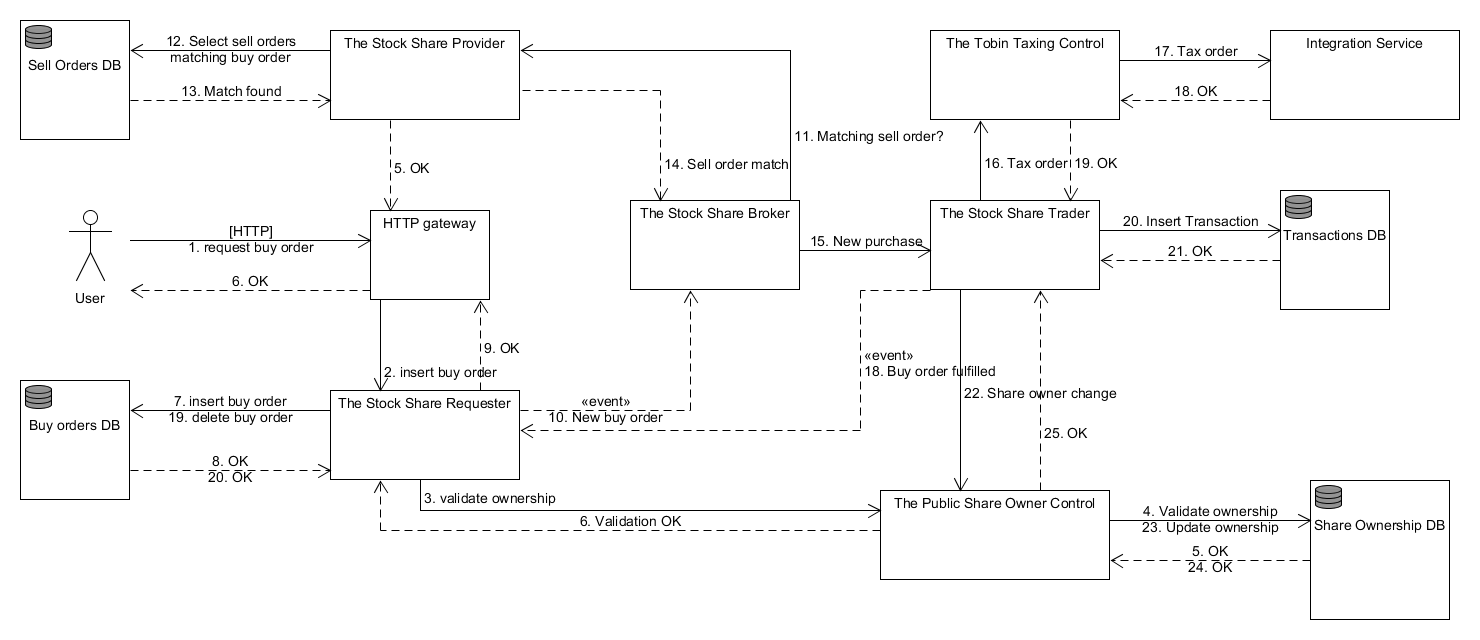
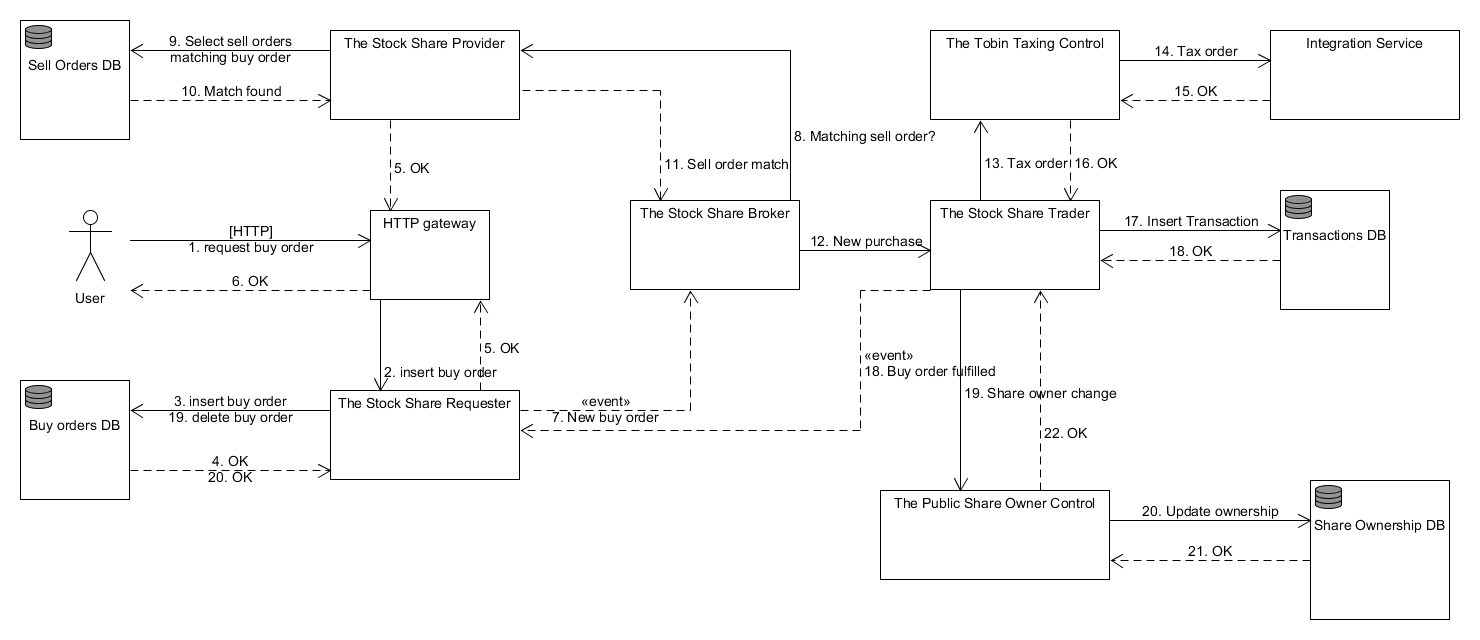
Updated diagrams and added validation check to provider

diff --git a/StockShareProvider/Controllers/SellOrderController.cs b/StockShareProvider/Controllers/SellOrderController.cs
@@ -1,4 +1,10 @@
-using Microsoft.AspNetCore.Mvc;
+using System;
+using System.Collections.Generic;
+using System.Fabric;
+using System.Net.Http;
+using System.Threading.Tasks;
+using Microsoft.AspNetCore.Http;
+using Microsoft.AspNetCore.Mvc;
 using Newtonsoft.Json;
 using Shared.Infrastructure;
 using Shared.Models;
@@ -12,26 +18,60 @@ namespace StockShareProvider.Controllers
     {
         private readonly SellOrderHandler _handler;
         private readonly IQueueGateway _queueGateWay;
+        private readonly HttpClient _httpClient;
+        private readonly FabricClient _fabricClient;
+        private readonly StatelessServiceContext _serviceContext;
 
-        public SellOrderController(SellOrderHandler handler, IQueueGateway mqChannel)
+        public SellOrderController(HttpClient httpClient, FabricClient fabricClient, StatelessServiceContext serviceContext, SellOrderHandler handler, IQueueGateway mqChannel)
         {
+            _httpClient = httpClient;
+            _fabricClient = fabricClient;
+            _serviceContext = serviceContext;
             _handler = handler;
             _queueGateWay = mqChannel;
         }
 
         [HttpPost]
-        public IActionResult Insert([FromBody] SellOrderModel insertModel)
+        public async Task<IActionResult> Insert([FromBody] SellOrderModel insertModel)
         {
-            var resultModel = _handler.InsertSellOrder(insertModel);
-
-            if (resultModel.ResultCode == Result.Error)
+            try
             {
-                return BadRequest(resultModel.Error);
-            }
+                //call validate on StockShareOwnerControl
+                Uri serviceName = ServiceRelated.StockShareProvider.GetPublicShareOwnerControlServiceName(_serviceContext);
+                Uri proxyAddress = this.GetProxyAddress(serviceName);
 
-            _queueGateWay.PublishNewSellOrder(JsonConvert.SerializeObject(insertModel));
-            
-            return Ok();
+                string proxyUrl =
+                    $"{proxyAddress}/api/Purchase/Insert";
+
+                using (HttpRequestMessage request = new HttpRequestMessage(HttpMethod.Get, proxyUrl))
+                {
+                    string json = JsonConvert.SerializeObject(insertModel);
+
+                    request.Content = new StringContent(json, System.Text.Encoding.UTF8, "application/json");
+
+                    using (HttpResponseMessage response = await this._httpClient.SendAsync(request))
+                    {
+                        //check if validation was OK
+                        var resultTest = response.Content.ReadAsStringAsync();
+
+                    }
+                }
+
+                var resultModel = _handler.InsertSellOrder(insertModel);
+
+                if (resultModel.ResultCode == Result.Error)
+                {
+                    return BadRequest(resultModel.Error);
+                }
+
+                _queueGateWay.PublishNewSellOrder(JsonConvert.SerializeObject(insertModel));
+                
+                return Ok();
+            }
+            catch (Exception e)
+            {
+                return Ok(new ResultModel(Result.Error, e.ToString()));
+            }
         }
 
         [HttpGet("Matching")]
@@ -45,6 +85,11 @@ namespace StockShareProvider.Controllers
             }
 
             return new ObjectResult(resultModel.Result);
+        }
+
+        private Uri GetProxyAddress(Uri serviceName)
+        {
+            return new Uri($"http://localhost:19081{serviceName.AbsolutePath}");
         }
     }
 }

diff --git a/StockShareRequester/Controllers/BuyOrderController.cs b/StockShareRequester/Controllers/BuyOrderController.cs
@@ -1,10 +1,12 @@
 using System;
+using System.Fabric;
+using System.Net.Http;
+using System.Threading.Tasks;
 using Microsoft.AspNetCore.Mvc;
 using Newtonsoft.Json;
 using Shared.Infrastructure;
 using Shared.Models;
 using StockShareRequester.Handlers;
-using StockShareRequester.Queue;
 using StockShareRequester.Queue.Abstract;
 
 namespace StockShareRequester.Controllers
@@ -15,7 +17,8 @@ namespace StockShareRequester.Controllers
     {
         private BuyOrderHandler _handler { get; set; }
         private readonly IQueueGateWay _queueGateWay;
-        public BuyOrderController(BuyOrderHandler handler, IQueueGateWay queueGateway)
+
+        public BuyOrderController(HttpClient httpClient, FabricClient fabricClient, StatelessServiceContext serviceContext, BuyOrderHandler handler, IQueueGateWay queueGateway)
         {
             _handler = handler;
             _queueGateWay = queueGateway;
@@ -28,7 +31,7 @@ namespace StockShareRequester.Controllers
         }
 
         [HttpPost("Insert")]
-        public IActionResult Insert([FromBody] BuyOrderModel model)
+        public async Task<IActionResult> Insert([FromBody] BuyOrderModel model)
         {
             var result = _handler.InsertBuyOrder(model);
 
@@ -57,6 +60,11 @@ namespace StockShareRequester.Controllers
                 return new ObjectResult("GetMatchingBuyOrders exception: " + e);
             }
             
+        }
+
+        private Uri GetProxyAddress(Uri serviceName)
+        {
+            return new Uri($"http://localhost:19081{serviceName.AbsolutePath}");
         }
     }
 }

diff --git a/StockShareProvider/ServiceRelated/StockShareProvider.cs b/StockShareProvider/ServiceRelated/StockShareProvider.cs
@@ -1,6 +1,8 @@
-using System.Collections.Generic;
+using System;
+using System.Collections.Generic;
 using System.Fabric;
 using System.IO;
+using System.Net.Http;
 using Microsoft.AspNetCore.Hosting;
 using Microsoft.Extensions.DependencyInjection;
 using Microsoft.ServiceFabric.Services.Communication.AspNetCore;
@@ -36,6 +38,9 @@ namespace StockShareProvider.ServiceRelated
                                     .UseKestrel()
                                     .ConfigureServices(
                                         services => services
+                                            .AddSingleton(serviceContext)
+                                            .AddSingleton(new HttpClient())
+                                            .AddSingleton(new FabricClient())
                                             .AddSingleton<StatelessServiceContext>(serviceContext))
                                     .UseContentRoot(Directory.GetCurrentDirectory())
                                     .UseStartup<Startup>()
@@ -44,6 +49,12 @@ namespace StockShareProvider.ServiceRelated
                                     .Build();
                     }))
             };
+        }
+
+        internal static Uri GetPublicShareOwnerControlServiceName(ServiceContext context)
+        {
+            return new Uri($"{context.CodePackageActivationContext.ApplicationName}/StockShareTrader");
+            //return new Uri($"{context.CodePackageActivationContext.ApplicationName}/PublicShareOwnerControl");
         }
     }
 }

diff --git a/StockShareTrader/Controllers/PurchaseController.cs b/StockShareTrader/Controllers/PurchaseController.cs
@@ -19,7 +19,7 @@ namespace StockShareTrader.Controllers
             _queueGateWay = queueGateway;
         }
 
-        [HttpPost("Insert")]
+        [HttpPost("New")]
         public IActionResult Insert([FromBody] TransactionModel model)
         {
             var result = _handler.InsertTransaction(model);

diff --git a/StockShareRequester/StockShareRequester.cs b/StockShareRequester/StockShareRequester.cs
@@ -3,6 +3,7 @@ using System.Collections.Generic;
 using System.Fabric;
 using System.IO;
 using System.Linq;
+using System.Net.Http;
 using System.Reflection;
 using System.Threading;
 using System.Threading.Tasks;
